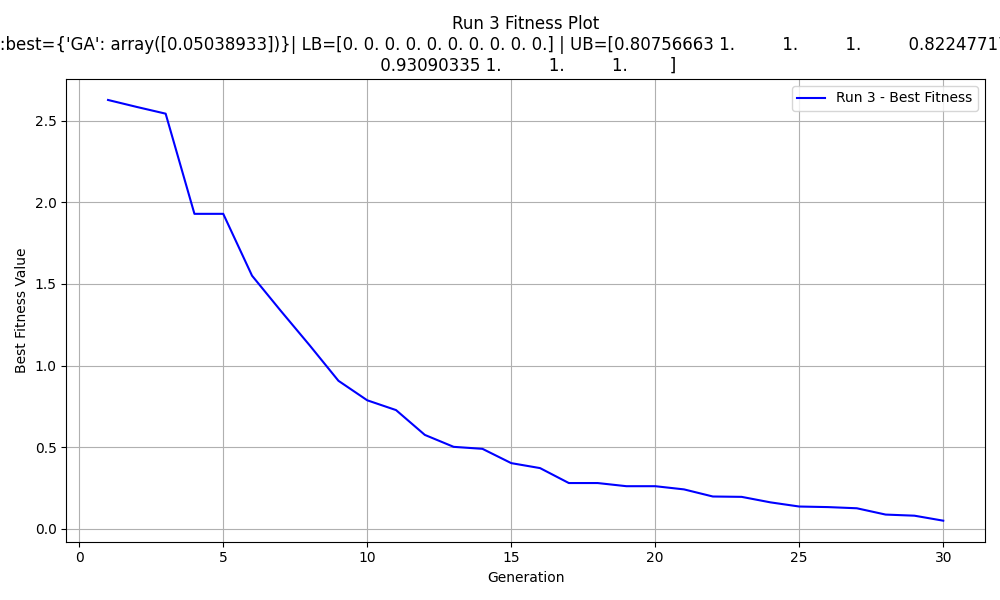
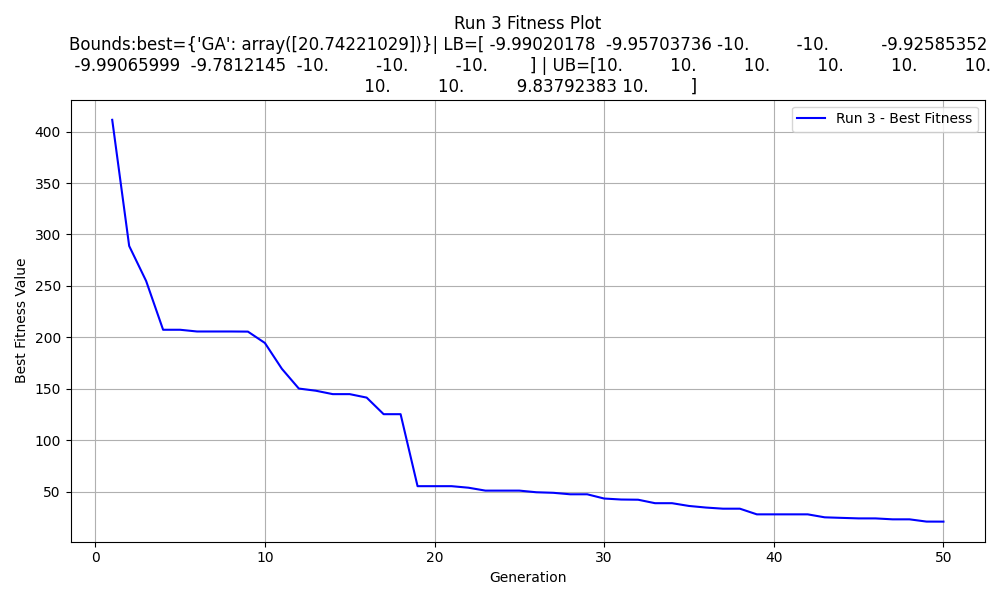
Fixed the bug and model is now trained from combined data from prev iterations

diff --git a/my_custom_problem.py b/my_custom_problem.py
@@ -1,0 +1,217 @@
+
+import heyoka as hy
+import pygmo as pg
+import numpy as np
+import scipy
+import PIL
+import time
+
+from matplotlib import pyplot as plt
+from mpl_toolkits import mplot3d
+import matplotlib.cm as cm
+from pymoo.core.problem import Problem
+import numpy as np
+
+class SPOC3PymooProblem(Problem):
+    def __init__(self, n_sat, ic, T, mu, n_meas=3, scaling_factor=1e-4, inflation_factor=1.5, verbose=True):
+        # Initialize problem dimensions
+        self.n_sat = n_sat
+        self.ic = ic
+        self.T = T
+        self.mu = mu
+        self.n_meas = n_meas
+        self.scaling_factor = scaling_factor
+        self.inflation_factor = inflation_factor
+        self.verbose = verbose
+
+        # Create STMs and reference trajectory
+        self.ref_state, self.stms = stm_factory(ic, T, mu, n_meas, verbose)
+
+        # Number of variables = n_sat * 3 (positions) + n_sat * 3 (velocities)
+        n_var = n_sat * 6
+        n_obj = 1  # Assuming a single-objective problem
+        n_constr = 0  # Update if there are constraints
+
+        # Bounds from get_bounds()
+        xl, xu = [-1.0] * (n_sat * 3) + [-10.0] * (n_sat * 3), [1.0] * (n_sat * 3) + [10.0] * (n_sat * 3)
+
+        # Initialize Pymoo problem
+        super().__init__(n_var=n_var, n_obj=n_obj, n_constr=n_constr, xl=xl, xu=xu)
+
+    def _evaluate(self, x, out, *args, **kwargs):
+
+            """
+            Fitness function without plotting.
+
+            Args:
+                x (`list` of length N): Chromosome containing initial relative positions and velocities of each satellite.
+
+            Returns:
+                float: Negative of the worst fill factor across all observations.
+            """
+            N = self.n_sat
+
+            # Decode chromosome
+            dx0 = np.array([(i, j, k, l, m, n) for (i, j, k, l, m, n) in zip(
+                x[:N], x[N:2 * N], x[2 * N:3 * N], x[3 * N:4 * N], x[4 * N:5 * N], x[5 * N:]
+            )])
+
+            # Propagate formation and scale results
+            rel_pos = []
+            for stm in self.stms:
+                d_ic = dx0 * self.scaling_factor
+                fc = propagate_formation(d_ic, stm)
+                rel_pos.append(fc / self.scaling_factor)
+            rel_pos = np.array(rel_pos)
+
+            # Compute fill factors
+            fill_factors = []
+            for k in range(self.n_meas):
+                points_3D = rel_pos[k]
+
+                # Scale positions for inflation factor, except at the first observation
+                if k != 0:
+                    points_3D = points_3D / self.inflation_factor
+
+                # Crop points outside [-1, 1]
+                points_3D = points_3D[np.max(points_3D, axis=1) < 1]
+                points_3D = points_3D[np.min(points_3D, axis=1) > -1]
+
+                # Map points to 3D grid
+                pos3D = (points_3D * self.grid_size / 2).astype(int)
+                pos3D = pos3D + int(self.grid_size / 2)
+
+                # Compute projections onto XY, XZ, and YZ planes
+                I = np.zeros((self.grid_size, self.grid_size, self.grid_size))
+                for i, j, k_ in pos3D:
+                    I[i, j, k_] = 1
+
+                xy = np.max(I, axis=2)
+                xz = np.max(I, axis=1)
+                yz = np.max(I, axis=0)
+
+                # Compute autocorrelations for each plane
+                xyC = scipy.signal.correlate(xy, xy, mode="full")
+                xzC = scipy.signal.correlate(xz, xz, mode="full")
+                yzC = scipy.signal.correlate(yz, yz, mode="full")
+
+                # Remove near-zero values (numerical roundoffs)
+                xyC[abs(xyC) < 1e-8] = 0
+                xzC[abs(xzC) < 1e-8] = 0
+                yzC[abs(yzC) < 1e-8] = 0
+
+                # Compute fill factors
+                f1 = np.count_nonzero(xyC) / (xyC.shape[0] * xyC.shape[1])
+                f2 = np.count_nonzero(xzC) / (xzC.shape[0] * xzC.shape[1])
+                f3 = np.count_nonzero(yzC) / (yzC.shape[0] * yzC.shape[1])
+                fill_factors.append(f1 + f2 + f3)
+
+            # Return negative of the worst fill factor
+            out["F"] -min(fill_factors)
+
+def propagate_formation(dx0, stm):
+    """From some initial (relative) position and velocities returns new (relative) positions at
+    some future time (defined by the stm).
+    Args:
+        dx0 (`np.array` (N, 6)): initial relative positions and velocities.
+        stm (`np.array` (6,6)): the state transition matrix at some future time.
+    Returns:
+        np.array (N,3): propagated positions
+    """
+    dxT = stm @ dx0.T
+    # We return only the positions
+    return dxT.T[:, :3]
+
+
+def stm_factory(ic, T, mu, M, verbose=True):
+    """Constructs all the STMS and reference trajectory in a CR3BP dynamics
+    Args:
+        ic (`np.array` (N, 6)): initial conditions (absolute).
+        T (`float`): propagation time
+        mu (`float`): gravity parameter
+        M (`int`): number of grid points (observations)
+        verbose (boolean): print time it took to build Taylor integrator and STMs
+    Returns:
+        (ref_state (M, 6), stms (M,6,6)): the propagated state and stms
+    """
+    # ----- We assemble the CR3BP equation of motion --------
+    # The state
+    x, y, z, vx, vy, vz = hy.make_vars("x", "y", "z", "vx", "vy", "vz")
+    xarr = np.array([x, y, z, vx, vy, vz])
+    # The dynamics
+    r_1 = hy.sqrt((x + hy.par[0]) ** 2 + y**2 + z**2)
+    r_2 = hy.sqrt((x - (1 - hy.par[0])) ** 2 + y**2 + z**2)
+    dxdt = vx
+    dydt = vy
+    dzdt = vz
+    dvxdt = (
+        2 * vy
+        + x
+        - (1 - hy.par[0]) * (x + hy.par[0]) / (r_1**3)
+        - hy.par[0] * (x + hy.par[0] - 1) / (r_2**3)
+    )
+    dvydt = -2 * vx + y - (1 - hy.par[0]) * y / (r_1**3) - hy.par[0] * y / (r_2**3)
+    dvzdt = -(1 - hy.par[0]) / (r_1**3) * z - hy.par[0] / (r_2**3) * z
+    # This array contains the expressions (r.h.s.) of our dynamics
+    farr = np.array([dxdt, dydt, dzdt, dvxdt, dvydt, dvzdt])
+
+    # We now compute the variational equations
+    # 1 - Define the symbols
+    symbols_phi = []
+    for i in range(6):
+        for j in range(6):
+            # Here we define the symbol for the variations
+            symbols_phi.append("phi_" + str(i) + str(j))
+    phi = np.array(hy.make_vars(*symbols_phi)).reshape((6, 6))
+
+    # 2 - Compute the gradient
+    dfdx = []
+    for i in range(6):
+        for j in range(6):
+            dfdx.append(hy.diff(farr[i], xarr[j]))
+    dfdx = np.array(dfdx).reshape((6, 6))
+
+    # 3 - Assemble the expressions for the r.h.s. of the variational equations
+    dphidt = dfdx @ phi
+
+    dyn = []
+    for state, rhs in zip(xarr, farr):
+        dyn.append((state, rhs))
+    for state, rhs in zip(phi.reshape((36,)), dphidt.reshape((36,))):
+        dyn.append((state, rhs))
+
+    # These are the initial conditions on the variational equations (the identity matrix)
+    ic_var = np.eye(6).reshape((36,)).tolist()
+
+    start_time = time.time()
+    ta = hy.taylor_adaptive(
+        # The ODEs.
+        dyn,
+        # The initial conditions (do not matter, they will change)
+        [0.1] * 6 + ic_var,
+        # Operate below machine precision
+        # and in high-accuracy mode.
+        tol=1e-16,
+    )
+    if verbose:
+        print(
+            "--- %s seconds --- to build the Taylor integrator -- (do this only once)"
+            % (time.time() - start_time)
+        )
+    # We set the Taylor integration param
+    ta.pars[:] = [mu]
+    # We set the ic
+    ta.state[:6] = ic
+    ta.state[6:] = ic_var
+    ta.time = 0.0
+    # The time grid
+    t_grid = np.linspace(0, T, M)
+    # We integrate
+    start_time = time.time()
+    sol = ta.propagate_grid(t_grid)
+    if verbose:
+        print("--- %s seconds --- to construct all stms" % (time.time() - start_time))
+
+    ref_state = sol[4][:, :6]
+    stms = sol[4][:, 6:].reshape(M, 6, 6)
+    return (ref_state, stms)

diff --git a/genticalgorithm.py b/genticalgorithm.py
@@ -12,7 +12,7 @@ from problem_config import get_problem  # Import the problem configuration
 from XAI import processData
 
 # Initialize configurable parameters
-pop_size = 50  # Population size
+pop_size = 50 # Population size
 n_gen = 50  # Number of generations
 
 
@@ -36,6 +36,7 @@ class LogCallback(Callback):
                 "Constraints": constraints[i].tolist(),  # Convert rounded array to list
                 "Satisfied Constraints": int(np.sum(constraints[i] <= 0)),  # Count satisfied constraints
             })
+
 
 # Function to perform optimization with a specified algorithm
 def run_optimization(algorithm_name, algorithm, problem):
@@ -90,14 +91,13 @@ def save_to_csv(data, algorithm_name, iteration):
     print(f"Data has been saved to {file_name}")
 
 
-
 def main():
-    problem_name = "Schwefel"  # Change this to "G1", "G2", etc., as needed
+    problem_name = "Zakharov"  # Change this to "G1", "G2", etc., as needed
     # Initial problem setup
-    lb = mainlb = np.array([-500]*10, dtype=float)
-    ub = mainub =  np.array([500]*10, dtype=float)  # Start with default bounds for the problem
-    max_iterations = 2  # Number of times to run the process
-    csv_path =  "C:\\Users\\vyshn\\OneDrive\\Desktop\\append_log_GA_.csv"
+    lb = mainlb = np.array([-10] * 10, dtype=float)
+    ub = mainub = np.array([10] * 10, dtype=float)    # Start with default bounds for the problem
+    max_iterations = 5  # Number of times to run the process
+    csv_path = "C:\\Users\\vyshn\\OneDrive\\Desktop\\append_log_GA_.csv"
 
     combined_best_fitness = {}
     for iteration in range(max_iterations):
@@ -146,25 +146,26 @@ def main():
 
         # Use the generated CSV to get recommendations for updating bounds
         print(f"Processing CSV data from {csv_path} for iteration {iteration + 1}...")
-        topKFeatureDictionary = processData(csv_path)
+        topKFeatureDictionary = processData(csv_path, iteration)
 
         # Update bounds based on the dictionary
-        lb, ub = update_bounds(topKFeatureDictionary, lb, ub, mainlb, mainub )
+        lb, ub = update_bounds(topKFeatureDictionary, lb, ub, mainlb, mainub)
 
         print(f"Updated bounds for next iteration: lb = {lb}, ub = {ub}")
     plot_combined_fitness(combined_best_fitness, n_gen)
 
+
 def update_bounds(feature_dict, lb, ub, main_lb, main_ub):
     for feature, value in feature_dict.items():
         if value < 0:  # Negative value: Increase lower bound by |value|%
-            increment = abs((value)/10 * lb[feature])
+            increment = abs((value) / 10 * lb[feature])
             new_lb = lb[feature] + increment
             # Check if the new lb exceeds the main upper bound
             if new_lb <= main_ub[feature] and new_lb > main_lb[feature]:
                 lb[feature] = new_lb
             # Otherwise, keep the old value
         elif value > 0:  # Positive value: Decrease upper bound by |value|%
-            decrement = (abs(value)/10) * ub[feature]
+            decrement = (abs(value) / 10) * ub[feature]
             new_ub = ub[feature] - decrement
             # Check if the new ub goes below the main lower bound
             if new_ub >= main_lb[feature] and new_ub <= main_ub[feature]:

diff --git a/problem_config.py b/problem_config.py
@@ -1,5 +1,6 @@
-from pymoo.problems.single import Ackley, G1, G2, Schwefel
+from pymoo.problems.single import Ackley,Zakharov, G1, G2, Schwefel, Rosenbrock,Rastrigin, Himmelblau, Sphere, Griewank
 import numpy as np
+
 
 #from my_custom_problem import MyCustomProblem  # Import your custom problem class
 def get_problem(problem_name, lb, ub):
@@ -8,7 +9,39 @@ def get_problem(problem_name, lb, ub):
         problem.n_var = 10
         problem.xl = lb
         problem.xu = ub
+    elif problem_name == "Sphere":
+        problem = Sphere()
+        problem.n_var = 10
+        problem.xl = lb
+        problem.xu = ub
 
+    elif problem_name == "Himmelblau":
+        problem = Himmelblau()
+        problem.n_var = 2
+        problem.xl = lb
+        problem.xu = ub
+    elif problem_name == "Rastrigin":
+        problem = Rastrigin()
+        problem.n_var = 10
+        problem.xl = lb
+        problem.xu = ub
+
+    elif problem_name == "Rosenbrock":
+        problem = Rosenbrock()
+        problem.n_var = 10
+        problem.xl = lb
+        problem.xu = ub
+
+    elif problem_name == "Zakharov":
+        problem = Zakharov()
+        problem.n_var = 10
+        problem.xl = lb
+        problem.xu = ub
+    elif problem_name == "griewank":
+        problem = Griewank()
+        problem.n_var = 10
+        problem.xl = lb
+        problem.xu = ub
     elif problem_name == "Schwefel":
         problem = Schwefel()
         problem.n_var = 10

diff --git a/XAI.py b/XAI.py
@@ -2,7 +2,7 @@
 #processData takes a csvFilepath and returns top K fetaures with each of its corelation values
 #like {10: -0.7984056706826558, 11: -0.8026639073625494, 9: -0.8400600506535494}
 
-def processData(csvPath): # '/home/zubair/Downloads/optimization_log 1.csv'
+def processData(csvPath, iteration): # '/home/zubair/Downloads/optimization_log 1.csv'
     import numpy as np
     import pandas as pd
     from sklearn.model_selection import train_test_split
@@ -64,14 +64,14 @@ def processData(csvPath): # '/home/zubair/Downloads/optimization_log 1.csv'
     plt.xlabel('Feature Index')
     plt.ylabel('Correlation with Fitness')
     plt.title('Features vs-Fitness Correlation')
-    plt.savefig(os.path.join(output_directory, f"Features vs-Fitness Correlation.png"), dpi=300)
+    plt.savefig(os.path.join(output_directory, f"Features vs-Fitness Correlation{iteration}.png"), dpi=300)
     #plt.show()
     #%%
     plt.bar(range(num_features), class_correlations)
     plt.xlabel('Feature Index')
     plt.ylabel('Correlation with CV')
     plt.title('Features vs-CV Correlation')
-    plt.savefig(os.path.join(output_directory, f"Features vs-CV Correlation.png"), dpi=300)
+    plt.savefig(os.path.join(output_directory, f"Features vs-CV Correlation{iteration}.png"), dpi=300)
     #plt.show()
     #%%
     feature_names=[f'Feature_{i}' for i in range(X.shape[1])]
